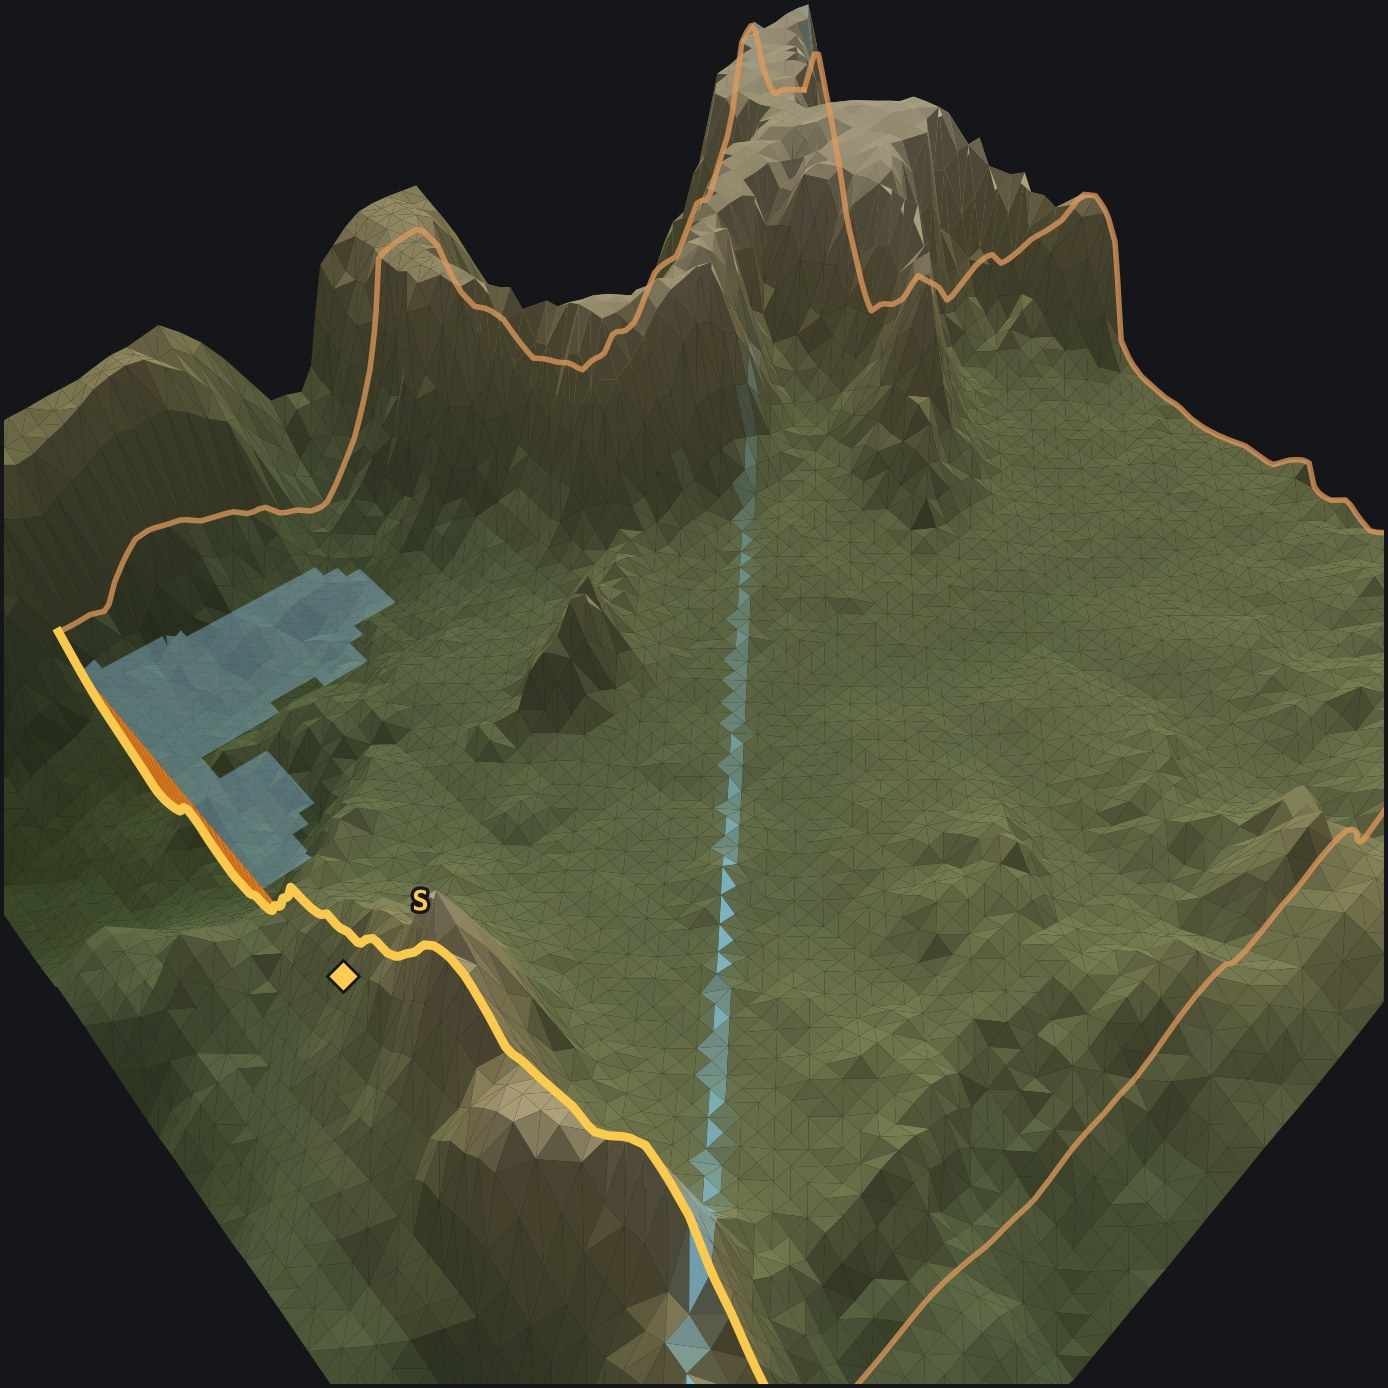
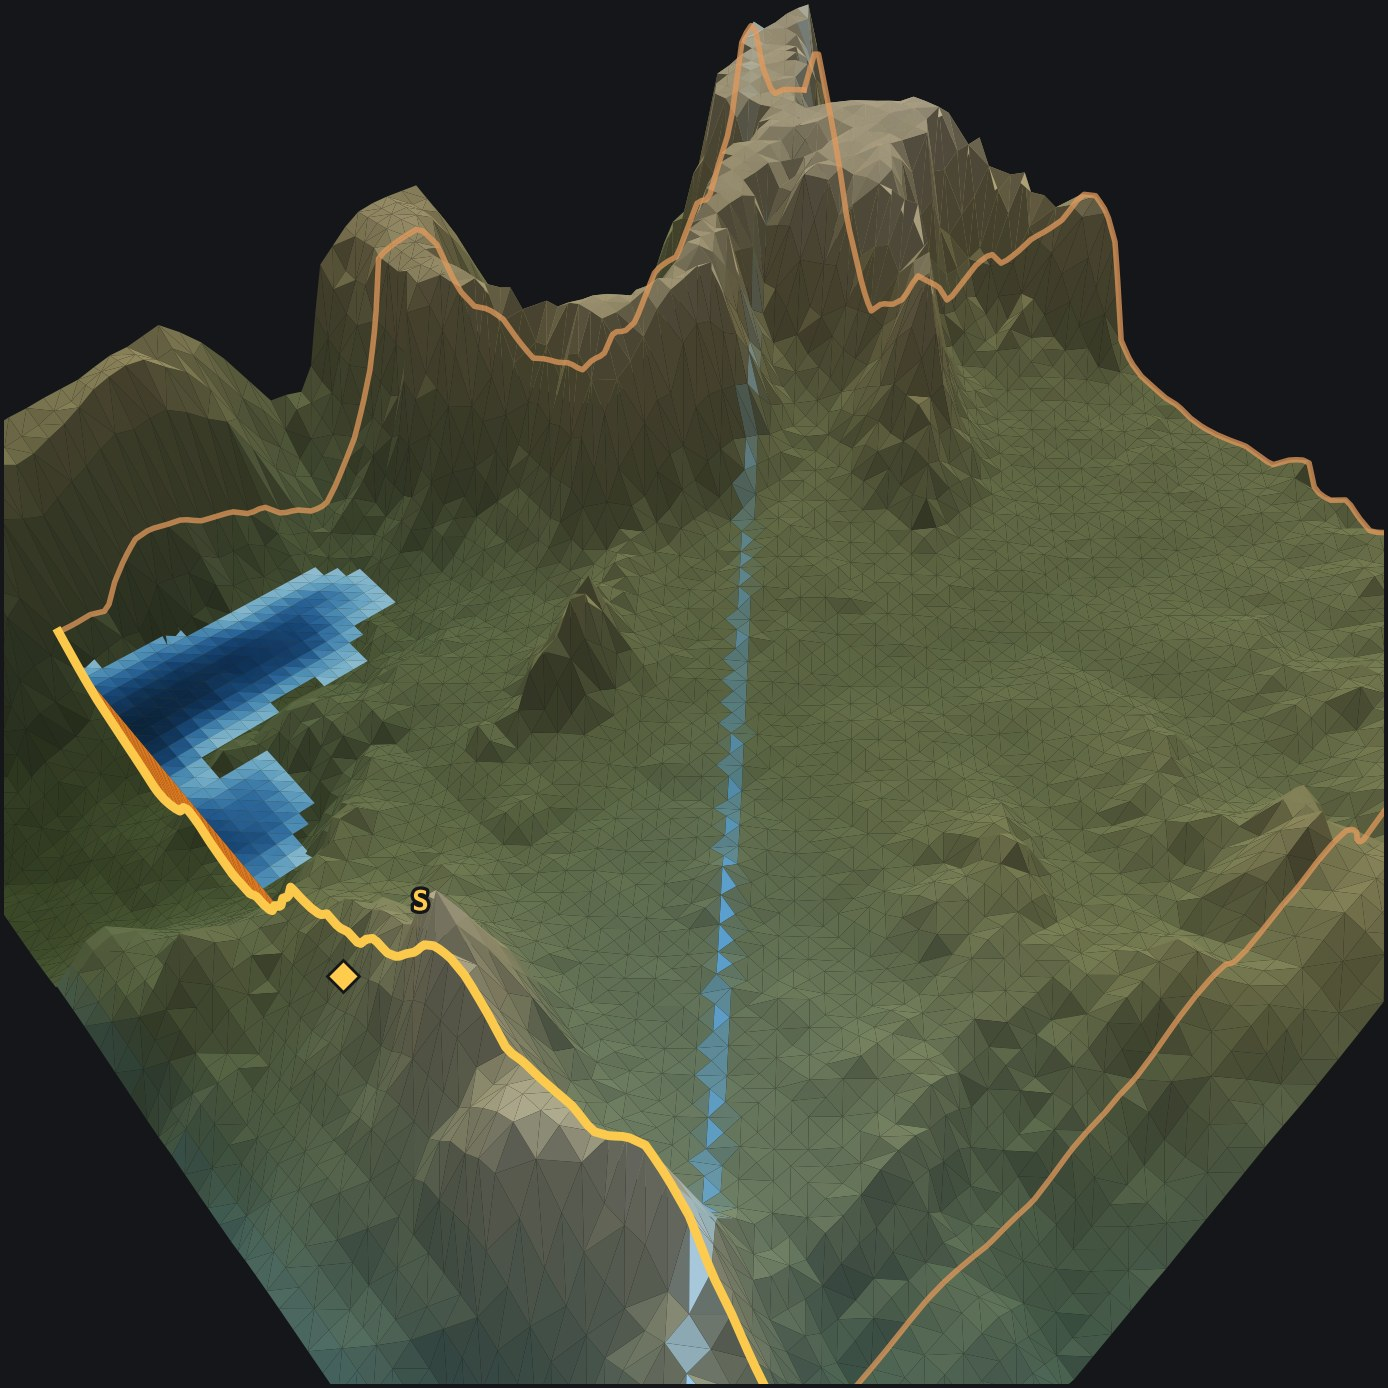
terrain: depth-shade the pool still; gradient flow descent
Per HW: the flat translucent pool becomes depth-shaded like the dam
render (navy deep, cyan shallow), and the flat channel line becomes a
descent gradient (pale headwaters deepening to river-blue) so it reads
as flowing water. alt updated.

diff --git a/terrain-study.html b/terrain-study.html
@@ -305,7 +305,7 @@
       <div class="plate plate-split"><div class="ps-left"><div class="ps-story"><img loading="lazy" decoding="async" class="digi-row" src="media/terrain/reservoir-build-sequence.jpg" alt="Build maps of the site: the satellite with the study boundary, its marked edge badged with its cardinal letter, the sampled points, and the mesh." width="1188" height="420"><div class="digi-hd"><span class="no">04</span>The computed, rendered surface</div><div class="digi-3d"><img loading="lazy" decoding="async" src="media/terrain/reservoir-context.jpg" alt="Zoomed far out and map-aligned with plate 01: the site boundary, badge on its marked edge, small within the surrounding terrain." width="604" height="604"><video src="media/terrain/reservoir-orbit.mp4" width="1120" height="938" loop muted playsinline preload="metadata" data-autoplay aria-label="Animation: slow orbit of the canyon's computed 3D surface with the dam site marked"></video><img loading="lazy" decoding="async" src="media/terrain/reservoir-oblique.jpg" alt="A second, low oblique view of the site in its surroundings, boundary badged." width="604" height="604"></div></div><div class="plate-foot"><span class="pl">Plate 0 &#183; from ground to model &#183; the canyon</span><span class="cap">This canyon, built the same way: the Sierra gorge from above (01), 3,721 sampled points (02), and the 7,200-triangle Delaunay mesh (03), lifted into the 3D surface (04), a slow aerial pass flanked by stills, the left one map-aligned with 01, the site outlined in orange inside the surrounding ground. The supporting tiles at right read it off: elevation (05), contours (06), shaded relief (07). The dam and the water it holds come next. Vertical exaggeration &#215;3.2.</span></div></div><div class="ps-reads"><div class="ps-lab">Supporting reads</div><div class="ps-cell"><div class="ps-cap">05 &#183; ELEVATION &#183; 251&#8211;617 m</div><img loading="lazy" decoding="async" class="ps-tile" src="media/terrain/reservoir-elevation.jpg" alt="The surface colored by elevation." width="408" height="408"></div><div class="ps-cell"><div class="ps-cap">06 &#183; CONTOURS</div><img loading="lazy" decoding="async" class="ps-tile" src="media/terrain/reservoir-contours.jpg" alt="The surface as contour lines." width="408" height="408"></div><div class="ps-cell"><div class="ps-cap">07 &#183; SHADED RELIEF</div><img loading="lazy" decoding="async" class="ps-tile" src="media/terrain/reservoir-relief.jpg" alt="The surface lit as shaded relief." width="408" height="408"></div></div></div>
     </figure></div>
     <div class="band figband clipfig"><figure><div class="plate"><div class="clipnarrow"><video src="media/terrain/reservoir-storm.mp4" width="1036" height="966" loop muted playsinline preload="metadata" data-autoplay aria-label="Animation: a simulated rainstorm over the canyon watershed"></video></div></div><figcaption class="plate-foot"><span class="pl">Plate 0 &#183; animated &#183; a storm over the gorge</span><span class="cap">The same storm physics over the whole catchment: the drainage network lights up, runoff concentrates, and water collects exactly in the basin the dam would use. Painted boundary and ground compass as in Study&nbsp;2. Illustrative routing, not calibrated hydrology. &#215;3.4 vertical.</span></figcaption></figure></div><div class="band figband clipfig"><figure><div class="plate"><video src="media/terrain/reservoir-comparison.mp4" width="1662" height="830" loop muted playsinline preload="metadata" data-autoplay aria-label="Animation: side by side, the canyon shedding a storm without the dam and the reservoir filling behind the dam"></video></div><figcaption class="plate-foot"><span class="pl">Plate 3 &#183; animated &#183; without the dam, with the dam</span><span class="cap">The argument for the site, side by side. Without the dam, the drainage runs out the gorge&#8217;s one outlet. With it: the dam&#8217;s footprint appears first as a phantom, drops into place, and the reservoir fills behind it while the stream below runs dry. The reservoir is the flooded basin the engine computes, not a drawn shape. &#215;3.4 vertical.</span></figcaption></figure></div><div class="band figband"><figure>
-      <div class="plate"><div class="resv3"><img loading="lazy" decoding="async" src="media/terrain/reservoir-fill.jpg" width="1388" height="1388" alt="The canyon at full pool from the air: the impounded reservoir shaded blue behind the orange dam wall at the south outlet, the study boundary marked, and the computed drainage running down the gorge into it."><img loading="lazy" decoding="async" src="media/terrain/reservoir-capacity.jpg" alt="The flooded extent shaded by water depth with the dam and deepest point marked, and the engine's stage-storage curve, capacity at every waterline." width="2043" height="1110"></div></div>
+      <div class="plate"><div class="resv3"><img loading="lazy" decoding="async" src="media/terrain/reservoir-fill.jpg" width="1388" height="1388" alt="The canyon at full pool from the air: the impounded reservoir shaded by depth (dark where deepest) behind the orange dam wall at the south outlet, the study boundary marked, and the computed drainage descending the gorge."><img loading="lazy" decoding="async" src="media/terrain/reservoir-capacity.jpg" alt="The flooded extent shaded by water depth with the dam and deepest point marked, and the engine's stage-storage curve, capacity at every waterline." width="2043" height="1110"></div></div>
       <figcaption class="plate-foot"><span class="pl">Plate 4 &#183; reservoir &#183; full pool</span><span class="cap">A dam across the south outlet fills the gorge to 44,457 acre-feet. The canyon at full pool from the air (left), the flooded footprint shaded by depth with the dam and deepest point marked (middle), and the engine&#8217;s stage-storage curve, capacity at every waterline (right). The capacity is the engine&#8217;s own cut-and-fill below the waterline. Ten-meter public data; a feasibility number rather than a design survey.</span></figcaption>
       <div class="fkey"><b>How to read it:</b> the orange wall is the dam, darker blue is deeper water, and the curve on the right shows how much the reservoir holds as the dam is built taller.</div>
     </figure></div>